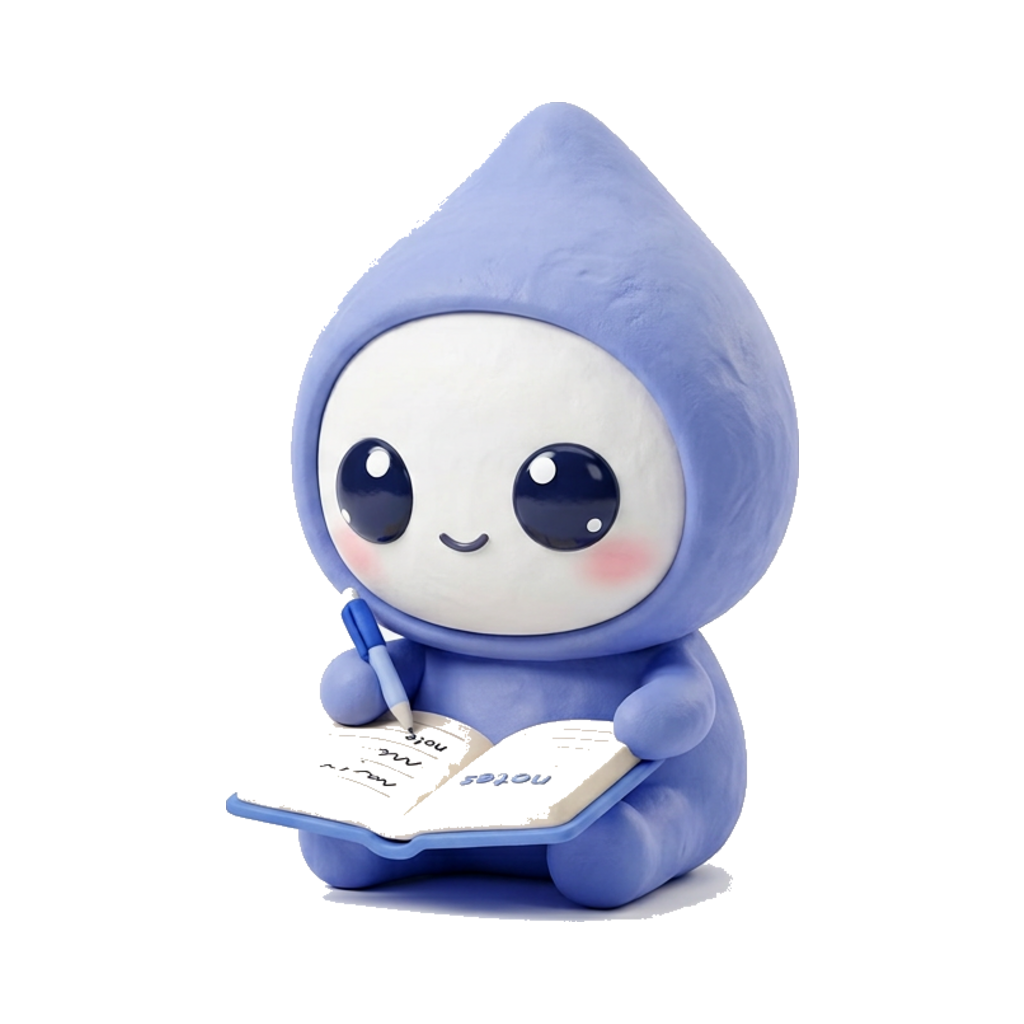
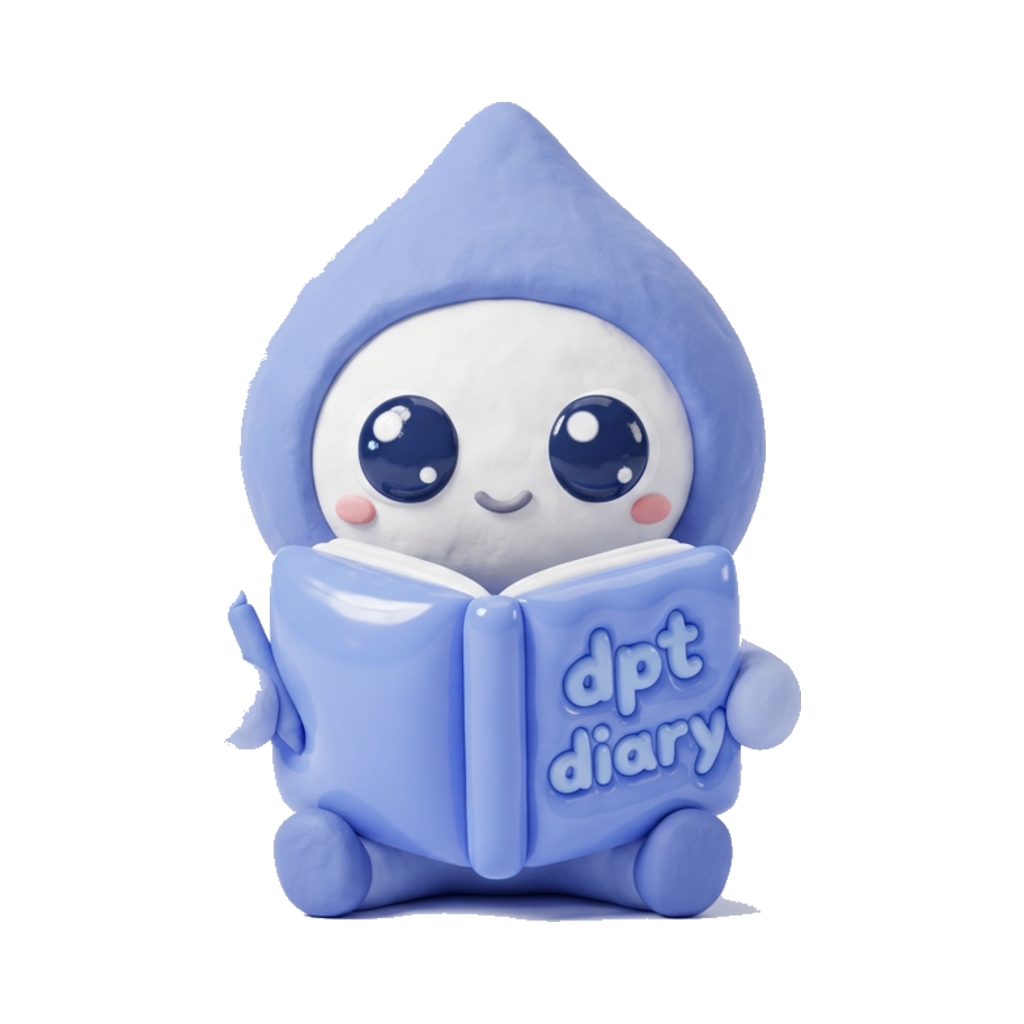
навыки: маскот с книжкой; тетрадь: бабл-тетрадка dpt diary

Changed region(s): [[0.2188, 0.0938, 0.7812, 0.9062]]

diff --git a/app/js/app.js b/app/js/app.js
@@ -802,7 +802,7 @@ function screenSkills() {
   const scr = el('div', { class: 'screen' });
   scr.append(el('h1', { class: 'ltitle' }, 'Навыки', el('small', {}, 'Пять блоков · проходи в своём порядке')));
   scr.append(el('div', { class: 'mascot-wrap peeking' },
-    el('img', { class: 'mascot', src: 'assets/mascot/star.png', alt: 'Дибитишка' }),
+    el('img', { class: 'mascot', src: 'assets/mascot/book.png', alt: 'Дибитишка' }),
     el('div', { class: 'bubble' }, 'Выбирай любой блок. Можно идти медленно, перепрыгивать и возвращаться.')
   ));
   for (const b of CONTENT.blocks) {
